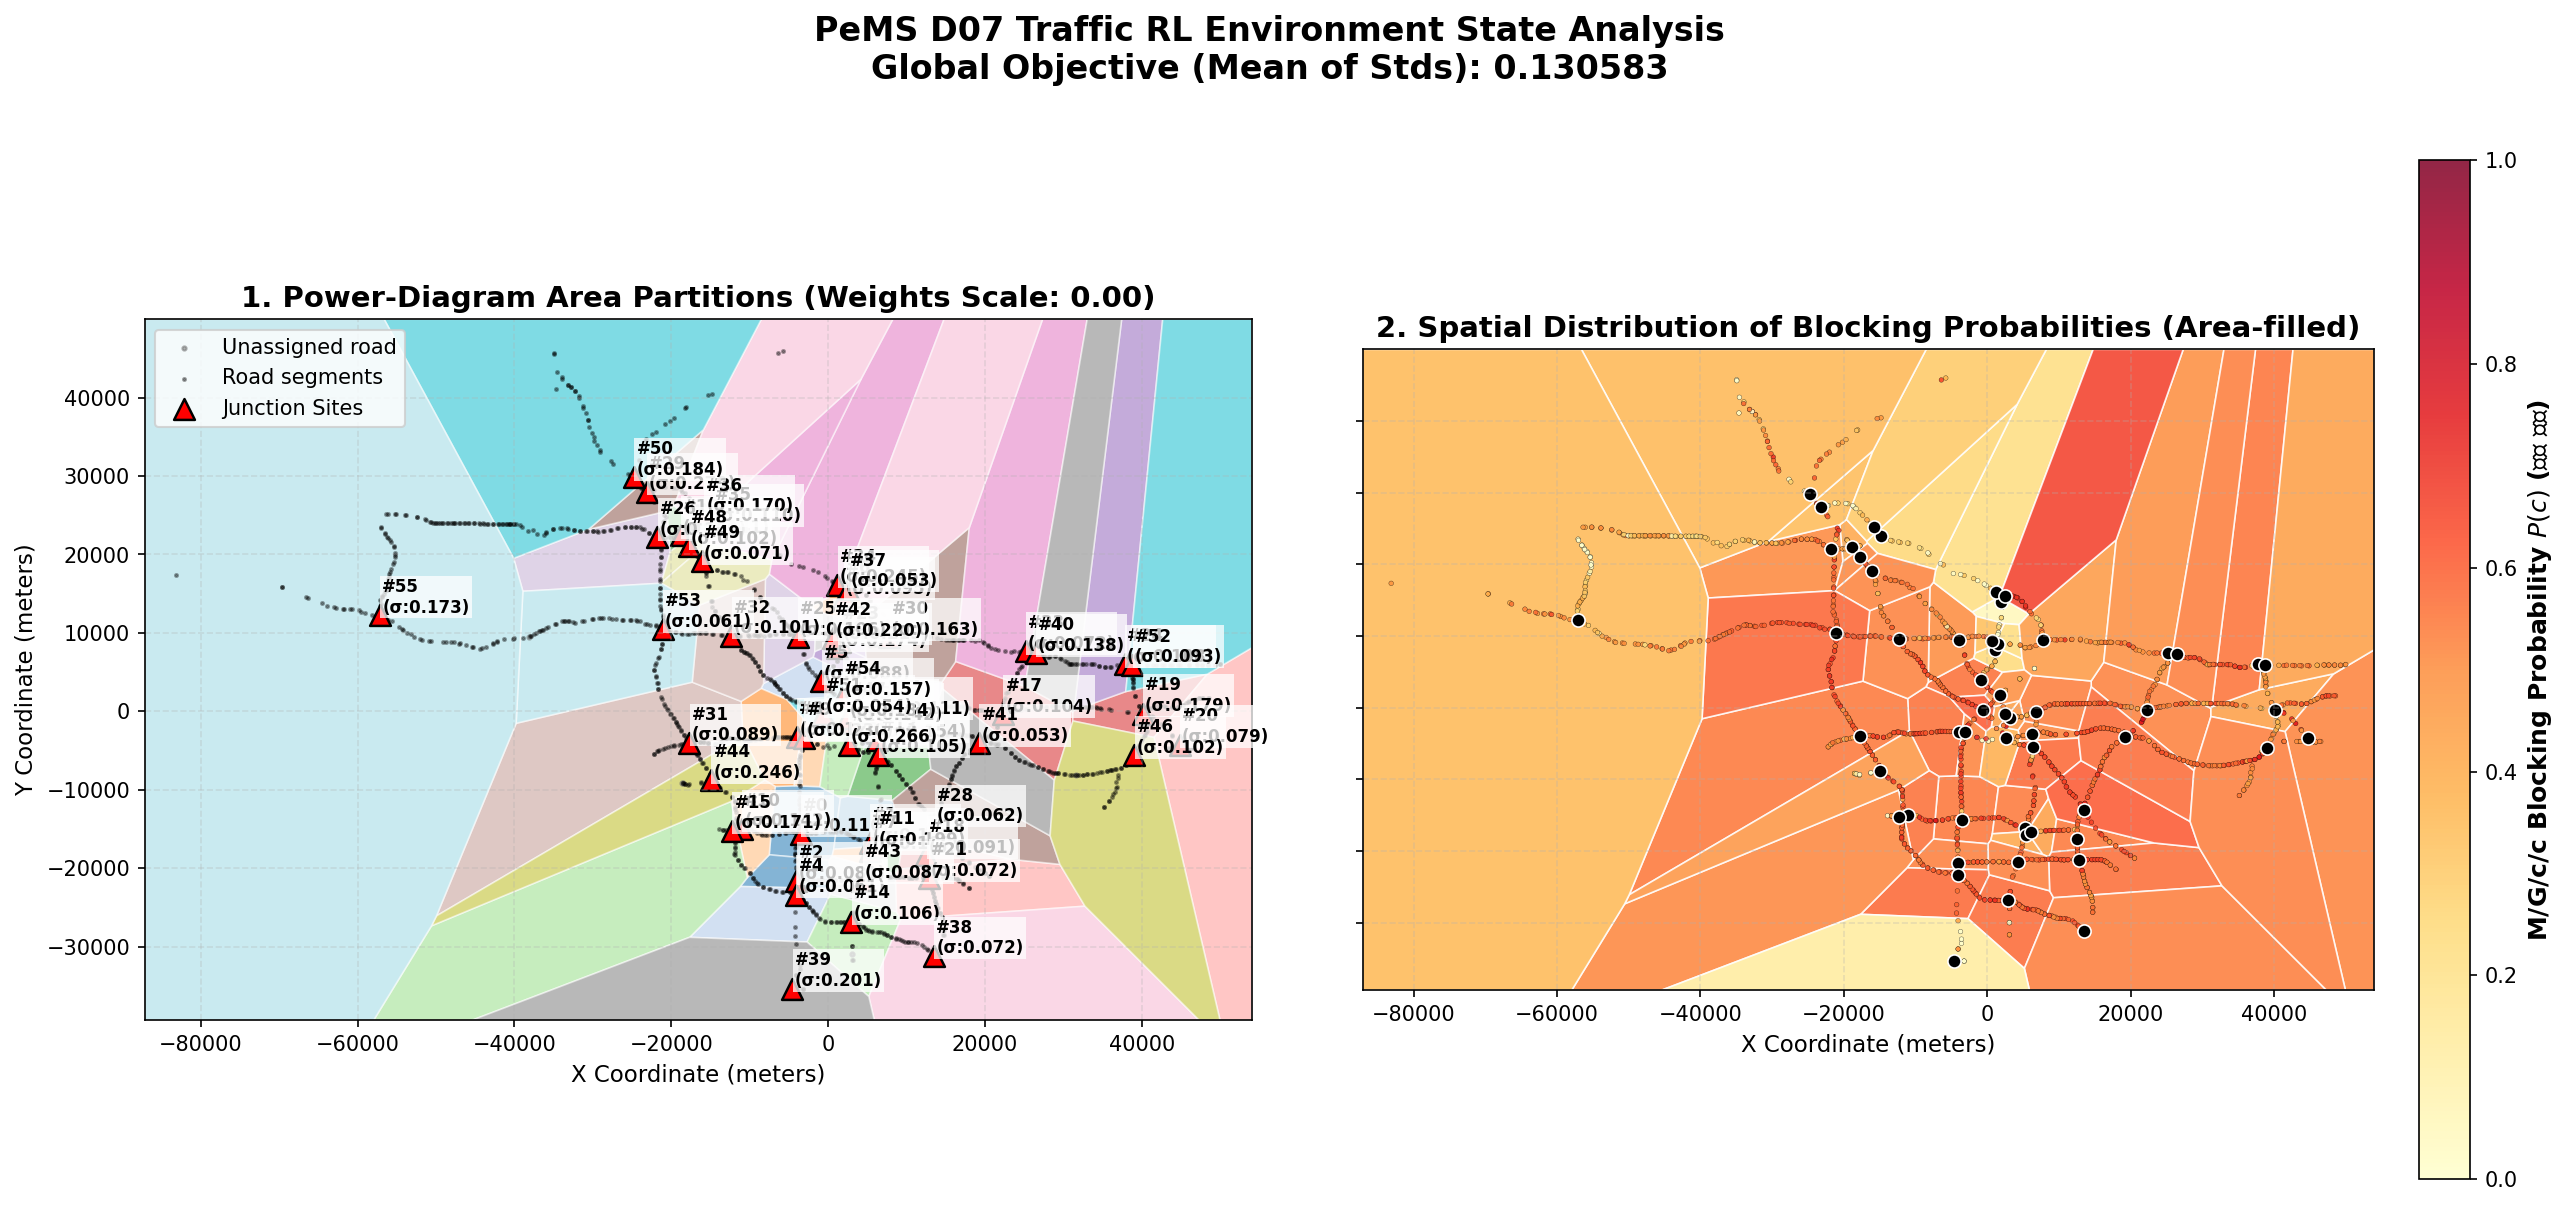
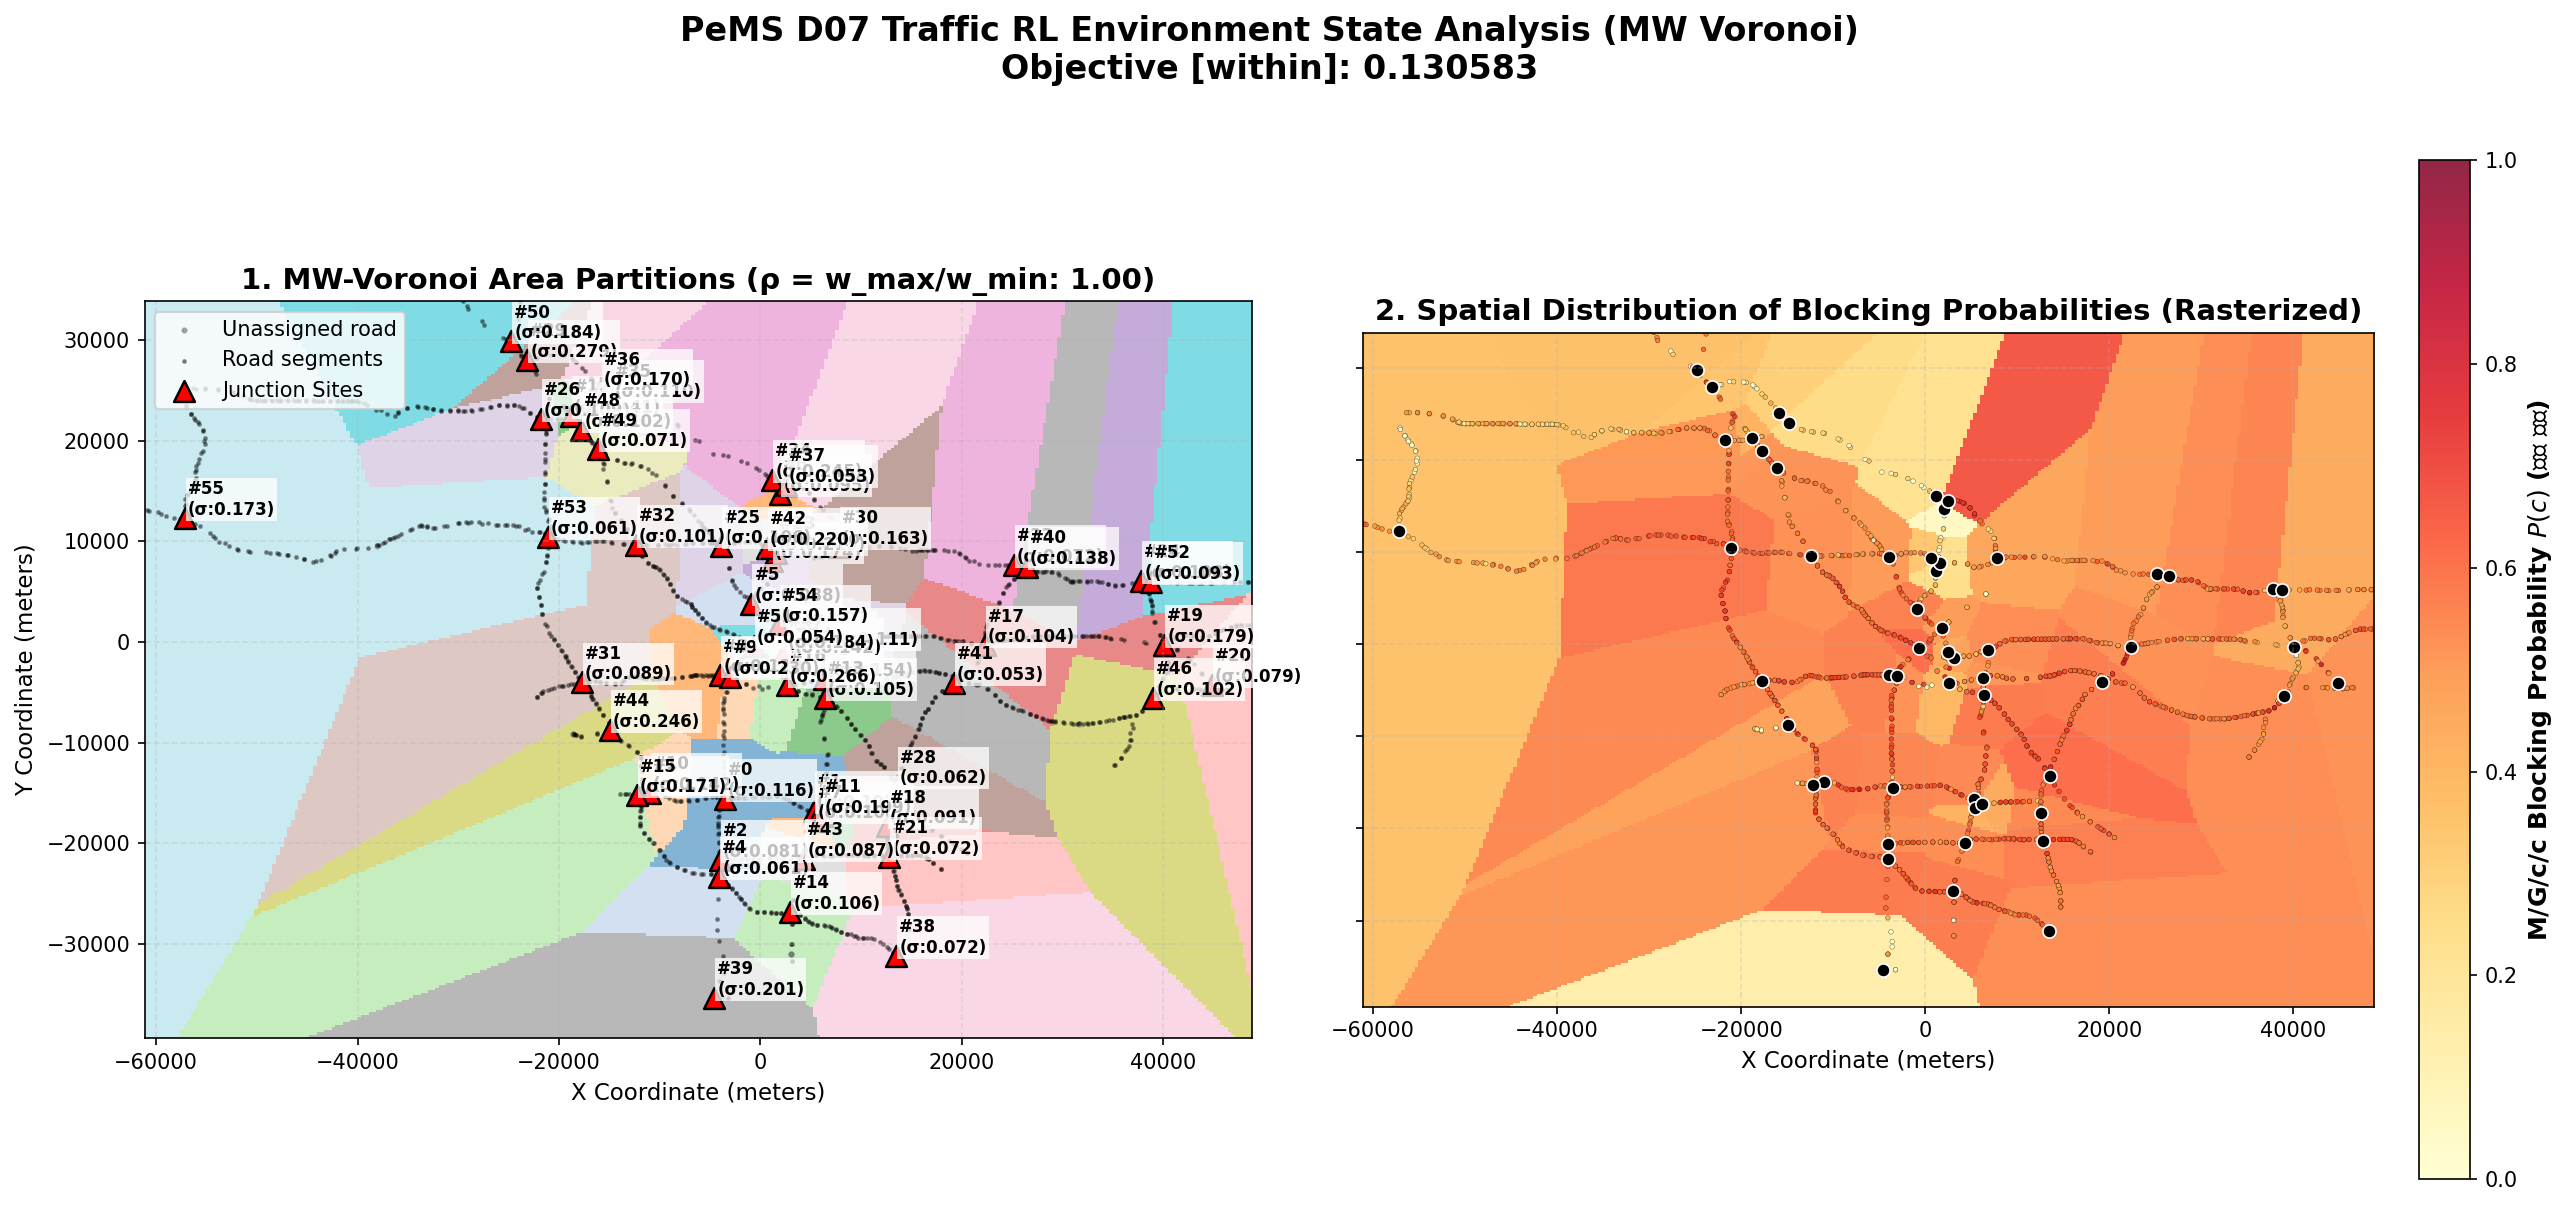
trashes/rl_env_vor_show.py를 MW 보로노이 로직에 맞게 재작성
power-diagram(폴리곤/STRtree/bbox 기반) 대신 MW(곱셈가중) 보로노이로
env 로직이 바뀌면서 기존 시각화 스크립트가 더 이상 동작하지 않았음.
TrafficRLEnvMW, cut_segments_fast, blocking_probability_batch를 사용하도록
바꾸고, 셀이 비볼록/비연결일 수 있어 폴리곤 대신 격자 래스터로 영역을 채워
그리도록 함. 실행 경로 오류(DIR=".")도 함께 수정.

diff --git a/features/data_preprocessing/vor_sd/trashes/rl_env_vor_show.py b/features/data_preprocessing/vor_sd/trashes/rl_env_vor_show.py
@@ -1,90 +1,101 @@
 import os
+import sys
+from pathlib import Path
+
 import numpy as np
-import pandas as pd
 import matplotlib.pyplot as plt
-from matplotlib.collections import PolyCollection
-from shapely.geometry import Polygon
 
-from rl_env_voronoi import TrafficRLEnv, VF_MS
-from weighted_voronoi import all_power_cells, blocking_probability
+# 이 파일(trashes/rl_env_vor_show.py) 기준으로 저장소 루트를 sys.path 에 추가한다.
+# rl_env_voronoi_mw.py 가 절대 패키지 경로(features.data_preprocessing.vor_sd...)로
+# 자기 모듈들을 import 하기 때문에, 루트가 sys.path 에 있어야 한다.
+REPO_ROOT = Path(__file__).resolve().parents[4]
+if str(REPO_ROOT) not in sys.path:
+    sys.path.insert(0, str(REPO_ROOT))
+
+from features.data_preprocessing.vor_sd.rl_env_voronoi_mw import TrafficRLEnvMW, VF_MS
+from features.data_preprocessing.vor_sd.mw_cut import cut_segments_fast
+from features.data_preprocessing.vor_sd.mg_cc_batch import blocking_probability_batch
 
 
-def compute_cells_and_segment_stats(env, weights):
+def compute_mw_stats(env, a):
     """
-    evaluate()와 동일한 멱 다이어그램/차단확률 로직을 재현하되,
-    (1) 폴리곤 좌표(cells) 자체, (2) 셀별 평균/표준편차, (3) 세그먼트별 상세값을 모두 반환한다.
+    evaluate()와 동일한 MW(곱셈가중) 절단/차단확률 로직을 재현하되,
+    (1) 세그먼트별 대표 소유 사이트/확률, (2) 사이트(셀)별 평균/표준편차를 모두 반환한다.
+    폴리곤을 만들지 않는 MW 버전에서는 셀 좌표 자체가 존재하지 않는다.
     """
-    cells = all_power_cells(env.site_coords, weights * env.spacing2, env.bbox)
+    w = env.weights(a)
 
-    N = env.N
-    assigned_site = np.full(N, -1, dtype=int)
-    seg_prob = np.full(N, np.nan)
-    best_len = np.zeros(N)
+    Lmat = cut_segments_fast(env.P, env.Q, env.site_coords, w, min_len=env.min_len)
+    seg_i, cell_i = np.nonzero(Lmat)
+    L_eff = Lmat[seg_i, cell_i]
 
-    stds = np.zeros(env.K)
-    cell_mean_prob = np.full(env.K, np.nan)
+    lam_eff = env.lam[seg_i]
+    if env.lam_scaling == "length":
+        lam_eff = lam_eff * (L_eff / env.seg_len[seg_i])
+    probs, _ = blocking_probability_batch(L_eff, VF_MS, lam_eff, env.lanes[seg_i])
 
-    for k, poly_coords in enumerate(cells):
-        if len(poly_coords) < 3:
-            continue
+    # 세그먼트별 대표 소유 사이트 = 그 세그먼트 위에서 가장 긴 조각을 차지한 셀
+    assigned_site = np.full(env.N, -1, dtype=int)
+    seg_prob = np.full(env.N, np.nan)
+    if len(seg_i) > 0:
+        order = np.lexsort((-L_eff, seg_i))  # seg_i 오름차순, 그 안에서 L_eff 내림차순
+        dominant = order[np.concatenate(([True], seg_i[order][1:] != seg_i[order][:-1]))]
+        assigned_site[seg_i[dominant]] = cell_i[dominant]
+        seg_prob[seg_i[dominant]] = probs[dominant]
 
-        poly = Polygon(poly_coords)
-        idx_hits = env.tree.query(poly)
+    # 셀(사이트)별 평균/표준편차
+    cnt = np.bincount(cell_i, minlength=env.K)
+    s1 = np.bincount(cell_i, weights=probs, minlength=env.K)
+    s2 = np.bincount(cell_i, weights=probs ** 2, minlength=env.K)
+    with np.errstate(invalid="ignore", divide="ignore"):
+        var = np.maximum(s2 / cnt - (s1 / cnt) ** 2, 0.0)
+    cell_mean_prob = np.where(cnt > 0, s1 / np.maximum(cnt, 1), np.nan)
+    cell_std = np.where(cnt >= env.min_pieces, np.sqrt(var), 0.0)
 
-        cell_probs = []
-        for idx in idx_hits:
-            line = env.seg_lines[idx]
-            if not poly.intersects(line):
-                continue
-
-            inter = poly.intersection(line)
-            L_eff = inter.length
-            if L_eff < 1.0:
-                continue
-
-            prob, _, _ = blocking_probability(
-                length_m=L_eff, v_free_ms=VF_MS,
-                lam=env.lam[idx], lanes=env.lanes[idx],
-            )
-            cell_probs.append(prob)
-
-            if L_eff > best_len[idx]:
-                best_len[idx] = L_eff
-                assigned_site[idx] = k
-                seg_prob[idx] = prob
-
-        if cell_probs:
-            stds[k] = np.std(cell_probs) if len(cell_probs) > 1 else 0.0
-            cell_mean_prob[k] = np.mean(cell_probs)
-
-    return cells, assigned_site, seg_prob, stds, cell_mean_prob
+    return assigned_site, seg_prob, cell_mean_prob, cell_std
 
 
-def plot_traffic_voronoi(env, weights, save_filename="traffic_visualization.png"):
+def rasterize_owner_grid(env, w, grid_res=300, pad=4000):
     """
-    멱 다이어그램(power diagram) 자체를 면적으로 채워서 시각화한다.
+    MW(Apollonius) 셀은 비볼록/비연결일 수 있어 폴리곤으로 그리기 어렵다.
+    대신 평면을 촘촘한 격자로 샘플링해 각 점의 소유 사이트(d_i = |x-p_i|/w_i 최소)를 구해
+    래스터(pcolormesh)로 영역을 채운다.
+    """
+    x_min, y_min = env.site_coords.min(axis=0) - pad
+    x_max, y_max = env.site_coords.max(axis=0) + pad
+
+    xs = np.linspace(x_min, x_max, grid_res)
+    ys = np.linspace(y_min, y_max, grid_res)
+    XX, YY = np.meshgrid(xs, ys)
+    pts = np.stack([XX.ravel(), YY.ravel()], axis=1)
+
+    d = np.linalg.norm(pts[:, None, :] - env.site_coords[None, :, :], axis=2) / w[None, :]
+    owner = d.argmin(1).reshape(grid_res, grid_res)
+
+    return XX, YY, owner, (x_min, y_min, x_max, y_max)
+
+
+def plot_traffic_voronoi(env, a, save_filename="traffic_visualization.png"):
+    """
+    MW(곱셈가중) 보로노이 다이어그램을 래스터로 채워서 시각화한다.
     왼쪽: site별 영역 분할, 오른쪽: 영역별 평균 M/G/c/c 차단확률(+개별 도로 산점도).
     """
-    seg_coords = env.seg_df[["mid_x", "mid_y"]].values
-    cells, assigned_site, seg_prob, stds, cell_mean_prob = compute_cells_and_segment_stats(env, weights)
+    w = env.weights(a)
+    seg_coords = 0.5 * (env.P + env.Q)
 
-    valid_idx = [k for k, poly in enumerate(cells) if len(poly) >= 3]
-    verts = [cells[k] for k in valid_idx]
+    assigned_site, seg_prob, cell_mean_prob, cell_std = compute_mw_stats(env, a)
+    XX, YY, owner_grid, (x_min, y_min, x_max, y_max) = rasterize_owner_grid(env, w)
 
     fig, axes = plt.subplots(1, 2, figsize=(20, 9), sharex=True, sharey=True)
     plt.subplots_adjust(wspace=0.1)
 
     # --------------------------------------------------------------------------
-    # [왼쪽 플롯] 멱 다이어그램 영역 분할 (면적 채우기)
+    # [왼쪽 플롯] MW 보로노이 영역 분할 (래스터 채우기)
     # --------------------------------------------------------------------------
     ax1 = axes[0]
 
-    area1 = PolyCollection(
-        verts, array=np.array(valid_idx, dtype=float), cmap="tab20",
-        edgecolors="white", linewidths=0.8, alpha=0.55
-    )
-    area1.set_clim(0, max(env.K - 1, 1))
-    ax1.add_collection(area1)
+    ax1.pcolormesh(XX, YY, owner_grid, cmap="tab20", vmin=0, vmax=max(env.K - 1, 1),
+                   alpha=0.55, shading="auto")
 
     unassigned = assigned_site == -1
     ax1.scatter(seg_coords[unassigned, 0], seg_coords[unassigned, 1],
@@ -96,29 +107,27 @@ def plot_traffic_voronoi(env, weights, save_filename="traffic_visualization.png"
                 c="red", marker="^", s=100, edgecolor="black", linewidth=1.2, label="Junction Sites")
     for k in range(env.K):
         ax1.text(env.site_coords[k, 0] + 300, env.site_coords[k, 1] + 300,
-                  f"#{k}\n(σ:{stds[k]:.3f})", fontsize=8, weight="bold",
+                  f"#{k}\n(σ:{cell_std[k]:.3f})", fontsize=8, weight="bold",
                   bbox=dict(facecolor="white", alpha=0.75, edgecolor="none", pad=1))
 
-    ax1.set_xlim(env.bbox[0], env.bbox[2])
-    ax1.set_ylim(env.bbox[1], env.bbox[3])
+    rho = w.max() / w.min()
+    ax1.set_xlim(x_min, x_max)
+    ax1.set_ylim(y_min, y_max)
     ax1.set_aspect("equal")
-    ax1.set_title(f"1. Power-Diagram Area Partitions (Weights Scale: {np.mean(weights):.2f})", fontsize=14, weight="bold")
+    ax1.set_title(f"1. MW-Voronoi Area Partitions (ρ = w_max/w_min: {rho:.2f})", fontsize=14, weight="bold")
     ax1.set_xlabel("X Coordinate (meters)", fontsize=11)
     ax1.set_ylabel("Y Coordinate (meters)", fontsize=11)
     ax1.grid(True, linestyle="--", alpha=0.3)
     ax1.legend(loc="upper left")
 
     # --------------------------------------------------------------------------
-    # [오른쪽 플롯] 영역별 평균 차단확률 (면적 채우기) + 개별 도로 산점도
+    # [오른쪽 플롯] 영역별 평균 차단확률 (래스터 채우기) + 개별 도로 산점도
     # --------------------------------------------------------------------------
     ax2 = axes[1]
 
-    area2 = PolyCollection(
-        verts, array=cell_mean_prob[valid_idx], cmap="YlOrRd",
-        edgecolors="white", linewidths=0.8, alpha=0.85
-    )
-    area2.set_clim(0.0, 1.0)
-    ax2.add_collection(area2)
+    prob_grid = np.nan_to_num(cell_mean_prob, nan=0.0)[owner_grid]
+    mesh2 = ax2.pcolormesh(XX, YY, prob_grid, cmap="YlOrRd", vmin=0.0, vmax=1.0,
+                            alpha=0.85, shading="auto")
 
     valid_seg = ~np.isnan(seg_prob)
     ax2.scatter(seg_coords[valid_seg, 0], seg_coords[valid_seg, 1],
@@ -128,19 +137,20 @@ def plot_traffic_voronoi(env, weights, save_filename="traffic_visualization.png"
     ax2.scatter(env.site_coords[:, 0], env.site_coords[:, 1],
                 c="black", marker="o", s=40, edgecolor="white", linewidth=0.8)
 
-    cbar = fig.colorbar(area2, ax=ax2, fraction=0.046, pad=0.04)
+    cbar = fig.colorbar(mesh2, ax=ax2, fraction=0.046, pad=0.04)
     cbar.set_label("M/G/c/c Blocking Probability $P(c)$ (영역 평균)", fontsize=12, weight="bold")
 
-    ax2.set_xlim(env.bbox[0], env.bbox[2])
-    ax2.set_ylim(env.bbox[1], env.bbox[3])
+    ax2.set_xlim(x_min, x_max)
+    ax2.set_ylim(y_min, y_max)
     ax2.set_aspect("equal")
-    ax2.set_title("2. Spatial Distribution of Blocking Probabilities (Area-filled)", fontsize=14, weight="bold")
+    ax2.set_title("2. Spatial Distribution of Blocking Probabilities (Rasterized)", fontsize=14, weight="bold")
     ax2.set_xlabel("X Coordinate (meters)", fontsize=11)
     ax2.grid(True, linestyle="--", alpha=0.3)
 
-    mean_std = np.mean(stds)
+    J, _ = env.evaluate(a)
     fig.suptitle(
-        f"PeMS D07 Traffic RL Environment State Analysis\nGlobal Objective (Mean of Stds): {mean_std:.6f}",
+        f"PeMS D07 Traffic RL Environment State Analysis (MW Voronoi)\n"
+        f"Objective [{env.objective}]: {J:.6f}",
         fontsize=16, weight="bold", y=0.98
     )
 
@@ -150,42 +160,45 @@ def plot_traffic_voronoi(env, weights, save_filename="traffic_visualization.png"
     print(f"[성공] 시각화 플롯이 '{save_filename}'에 저장되었습니다.")
 
 
+def random_search_best_a(env, iters=2000, seed=42):
+    """하드코딩된 옛 power-diagram 가중치 예시를 대체:
+    현재 MW 환경(a-space, |a|<=a_bound)에서 무작위 탐색으로 목적함수가 가장 낮은 a를 찾는다."""
+    rng = np.random.default_rng(seed)
+    best_J, best_a = np.inf, np.zeros(env.K)
+    for _ in range(iters):
+        a = rng.uniform(-env.a_bound, env.a_bound, env.K)
+        a -= a.mean()
+        J, _ = env.evaluate(a)
+        if J < best_J:
+            best_J, best_a = J, a
+    return best_a, best_J
+
+
 if __name__ == "__main__":
-    DIR = "."  # vor_sd 폴더 안에서 실행한다고 가정
+    DIR = str(REPO_ROOT / "features" / "data_preprocessing" / "vor_sd")
 
     SEGMENTS_FILE = f"{DIR}/outputs/pems_d07_segments.csv"
     SITES_FILE = f"{DIR}/outputs/pems_d07_sites.csv"
     META_FILE = f"{DIR}/d07_text_meta_2018_10_13.txt"
 
     print("[Visualizer] 환경 데이터 로드 및 초기화 중...")
-    env = TrafficRLEnv(
+    env = TrafficRLEnvMW(
         segments_csv=SEGMENTS_FILE,
         sites_csv=SITES_FILE,
         meta_txt=META_FILE
     )
 
-    print("\n[시나리오 1] 균등 가중치(Uniform Weights) 시각화 생성 중...")
-    uniform_weights = np.zeros(env.K)
-    plot_traffic_voronoi(env, uniform_weights, save_filename=f"{DIR}/outputs/vis_uniform_weights.png")
+    print("\n[시나리오 1] 균등 가중치(Uniform, a=0) 시각화 생성 중...")
+    uniform_a = np.zeros(env.K)
+    plot_traffic_voronoi(env, uniform_a, save_filename=f"{DIR}/outputs/vis_uniform_weights.png")
 
-    print("\n[시나리오 2] 무작위 가중치(Random Weights) 시각화 생성 중...")
-    np.random.seed(42)
-    random_weights = np.random.uniform(-50, 50, size=env.K)
-    plot_traffic_voronoi(env, random_weights, save_filename=f"{DIR}/outputs/vis_random_weights.png")
+    print("\n[시나리오 2] 무작위 가중치(Random a) 시각화 생성 중...")
+    rng = np.random.default_rng(42)
+    random_a = rng.uniform(-env.a_bound, env.a_bound, env.K)
+    random_a -= random_a.mean()
+    plot_traffic_voronoi(env, random_a, save_filename=f"{DIR}/outputs/vis_random_weights.png")
 
-    print("\n[시나리오 3] 학습된(도출) 가중치 시각화 생성 중...")
-    anal_weights = np.array([
-        49.96741934, 47.13893601, -42.7545594, -1.65908331, 47.85887268,
-        -42.21540915, 35.87545882, -30.28017296, -21.80077422, 1.26895474,
-        -50.92952524, -4.88680289, -6.7142753, -42.04246368, -49.18016608,
-        50.90372189, -15.26008708, 46.59871147, -11.98695063, -50.9681357,
-        29.33884171, -50.03240965, 0.95607672, -47.12416277, -11.85760138,
-        -50.9743623, -16.31290461, 22.13128088, 4.78380801, -50.97372816,
-        -0.5530032, -50.97250603, -23.77873442, -50.94838635, 11.48741087,
-        -45.07208194, 36.80758185, 50.21449381, -36.55854074, 0.91187941,
-        12.49942578, 22.49752191, -48.85336488, 26.8287647, 51.02502568,
-        51.02502914, 50.88768059, 33.66862827, 49.52608593, 35.32594693,
-        50.99385174, 18.34145188, -50.93979422, 19.3288309, 35.1415751,
-        12.29671952,
-    ])
-    plot_traffic_voronoi(env, anal_weights, save_filename=f"{DIR}/outputs/vis_anal_weights.png")
+    print("\n[시나리오 3] 탐색된(무작위 서치 최적) 가중치 시각화 생성 중...")
+    best_a, best_J = random_search_best_a(env, iters=2000)
+    print(f"  -> 탐색된 최적 목적함수 값: {best_J:.6f}")
+    plot_traffic_voronoi(env, best_a, save_filename=f"{DIR}/outputs/vis_anal_weights.png")
